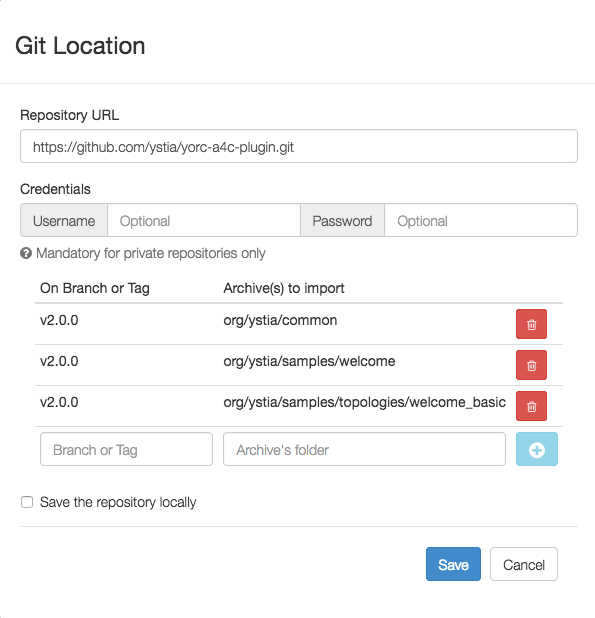
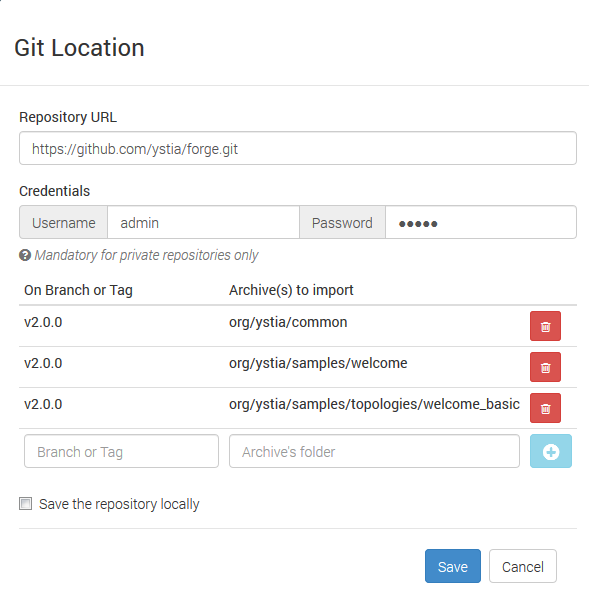
Updated Uploaf from Forge section

diff --git a/docs/applications/upload_from_forge.md b/docs/applications/upload_from_forge.md
@@ -11,9 +11,9 @@ For example, it provides :
      allowing you to create a Kubernetes cluster in your datacenter.
   * etc...
 
-See the list of avaiable components and applications template at https://github.com/ystia/forge/tree/develop/org/ystia.
+See the list of avaiable components and applications template at https://github.com/ystia/forge/tree/v2.0.0/org/ystia.
 
-Here, we will upload a sample application template, [Welcome](https://github.com/ystia/forge/tree/develop/org/ystia/samples/topologies/welcome_basic),
+Here, we will upload a sample application template, [Welcome](https://github.com/ystia/forge/tree/v2.0.0/org/ystia/samples/topologies/welcome_basic),
 deploying an HTTP server.
 
 To upload this application template in Alien4Cloud, you could generate zip archives
@@ -33,10 +33,10 @@ common components and the Welcome component referenced in the application templa
   * https://github.com/ystia/forge/tree/v2.0.0/org/ystia/samples/welcome
   * https://github.com/ystia/forge/tree/v2.0.0/org/ystia/samples/topologies/welcome_basic
 
-You need to provide the repository URL: https://github.com/ystia/yorc-a4c-plugin.git.
+You need to provide the repository URL: https://github.com/ystia/forge.git.
 And for each directory you want to deploy, you need to specify :
   * the `Branch or Tag`: here you need to specify tag `v2.0.0` as this is the version
-  compatible with Yorc 3.0.1
+  of the Forge compatible with Yorc 3.0.1
   * the path to the directory to import.
 Then click on `+` to add this tag/directory to the list of directories to import.
 
@@ -44,6 +44,21 @@ It gives finally :
 
 <img src="../images/a4cGitLocation.png">
 
-Click on `Save`. Then from this page, click on `Import` to import components and the application template :
+Click on `Save`. Then from this page, click on the operation  `Import` to import
+components and the application template:
+
+<img src="../images/a4cGitImport.png">
+
+Once done, you get this page providing the import result:
+
+<img src="../images/a4cGitImportResult.png">
+
+You can click select in the menu `Browse components` or `Browse topologies` to see
+the components/application templates imported in the Alien4Cloud catalog:
+
+<img src="../images/a4cCatalogBrowseTopo.png">
+
+Now that the Welcome application template is uploaded, the next step is to create
+and deploy an application from this template.
 
 

diff --git a/README.md b/README.md
@@ -1,8 +1,5 @@
 # Ystia Orchestrator guides
 
-
-<img src="docs/images/yorcicon.png">
-
 This repository provides guidance on how to install, use and troubleshoot the Ystia Orchestrator (Yorc).
 
 ## Overview
@@ -23,6 +20,6 @@ This repository provides guidance on how to install, use and troubleshoot the Ys
 ### Applications deployment
 
   * [Upload Components/Application templates](docs/applications/upload_from_forge.md) from Ystia Forge
-  * Deploy an application
+  * Create and deploy an application
 
 ### Troubleshooting
